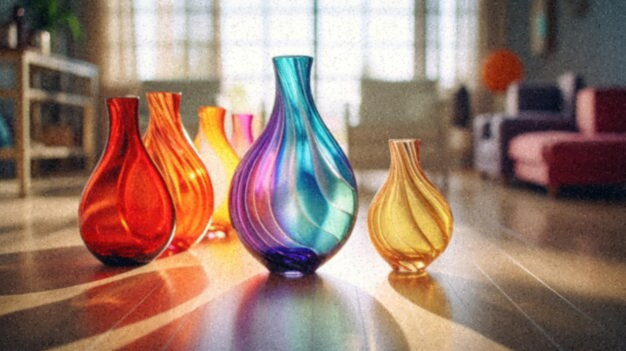
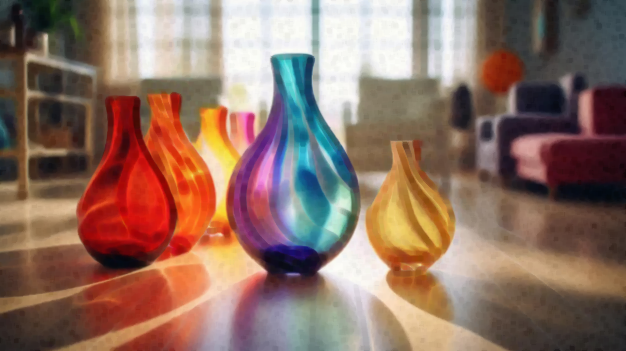
Медианный фильтр

diff --git a/Filters.cpp b/Filters.cpp
@@ -1,4 +1,5 @@
 #include "Filters.h"
+#include <algorithm>
 
 int NormalizeColor(int color)
 {
@@ -98,11 +99,11 @@ void CountKernelGauss(vector<double>& kernel, int apert)
     }
 }
 
-void GaussFilter(MyImg img, int startRow, int endRow, MyImg* result, vector<double> kernel, int apert)
+void GaussFilter(MyImg img, int startRow, int endRow, MyImg& result, vector<double> kernel, int apert)
 {
     int n = apert * 2 + 1;
 
-    for (int i = 0; i < result->width; i++)
+    for (int i = 0; i < result.width; i++)
     {
         for (int j = startRow; j <= endRow; j++)
         {
@@ -126,15 +127,51 @@ void GaussFilter(MyImg img, int startRow, int endRow, MyImg* result, vector<doub
             respix.r = NormalizeColor(int(round(R)));
             respix.g = NormalizeColor(int(round(G)));
             respix.b = NormalizeColor(int(round(B)));
-            respix.a = result->GetPixel(i, j).a;
+            respix.a = result.GetPixel(i, j).a;
 
-            result->SetPixel(i, j, respix);
+            result.SetPixel(i, j, respix);
         }
     }
 }
 
-void MedianFilter(MyImg img, int startRow, int endRow, MyImg result, int apert)
+void MedianFilter(MyImg img, int startRow, int endRow, MyImg& result, int apert)
 {
+    int n = apert * 2 + 1;
+    int size = n * n;
+
+    for (int i = 0; i < result.width; i++)
+    {
+        for (int j = startRow; j <= endRow; j++)
+        {
+            vector<int> rmas(size, 0);
+            vector<int> gmas(size, 0);
+            vector<int> bmas(size, 0);
+
+            for (int k = 0; k < n; k++)
+            {
+                for (int l = 0; l < n; l++)
+                {
+                    MyPixel pixel = img.GetPixel(i + l, j + k);
+
+                    rmas[k * n + l] = pixel.r;
+                    gmas[k * n + l] = pixel.g;
+                    bmas[k * n + l] = pixel.b;
+                }
+            }
+
+            sort(rmas.begin(), rmas.end());
+            sort(gmas.begin(), gmas.end());
+            sort(bmas.begin(), bmas.end());
+
+            MyPixel respix;
+            respix.r = rmas[apert];
+            respix.g = gmas[apert];
+            respix.b = bmas[apert];
+            respix.a = result.GetPixel(i, j).a;
+
+            result.SetPixel(i, j, respix);
+        }
+    }
 }
 
 void SobelFilter(MyImg img, int startRow, int endRow, MyImg result, int alpha)

diff --git a/Filters.h b/Filters.h
@@ -23,6 +23,6 @@ int NormalizeColor(int color);
 MyImg MakeGrey(MyImg colored);
 MyImg MakeImgWithBordersCopy(MyImg img, int apert);
 void CountKernelGauss(vector<double>& kernel, int apert);
-void GaussFilter(MyImg img, int startRow, int endRow, MyImg* result, vector<double> kernel, int apert);
-void MedianFilter(MyImg img, int startRow, int endRow, MyImg result, int apert);
+void GaussFilter(MyImg img, int startRow, int endRow, MyImg& result, vector<double> kernel, int apert);
+void MedianFilter(MyImg img, int startRow, int endRow, MyImg& result, int apert);
 void SobelFilter(MyImg img, int startRow, int endRow, MyImg result, int alpha);

diff --git a/PPP_lab2_native.cpp b/PPP_lab2_native.cpp
@@ -60,8 +60,10 @@ int main()
 
     bordered = MakeImgWithBordersCopy(img, apert);
     CountKernelGauss(kernel, apert);
-    GaussFilter(bordered, 0, img.height - 1, &result, kernel, apert);
+    GaussFilter(bordered, 0, img.height - 1, result, kernel, apert);
 
+    bordered = MakeImgWithBordersCopy(result, apert);
+    MedianFilter(bordered, 0, img.height - 1, result, apert);
 
     if (stbi_write_png("result.jpg", width, height, channels, result.img.data(), width * channels)) {
         cout << "Изображение сохранено как result.jpg" << endl;
